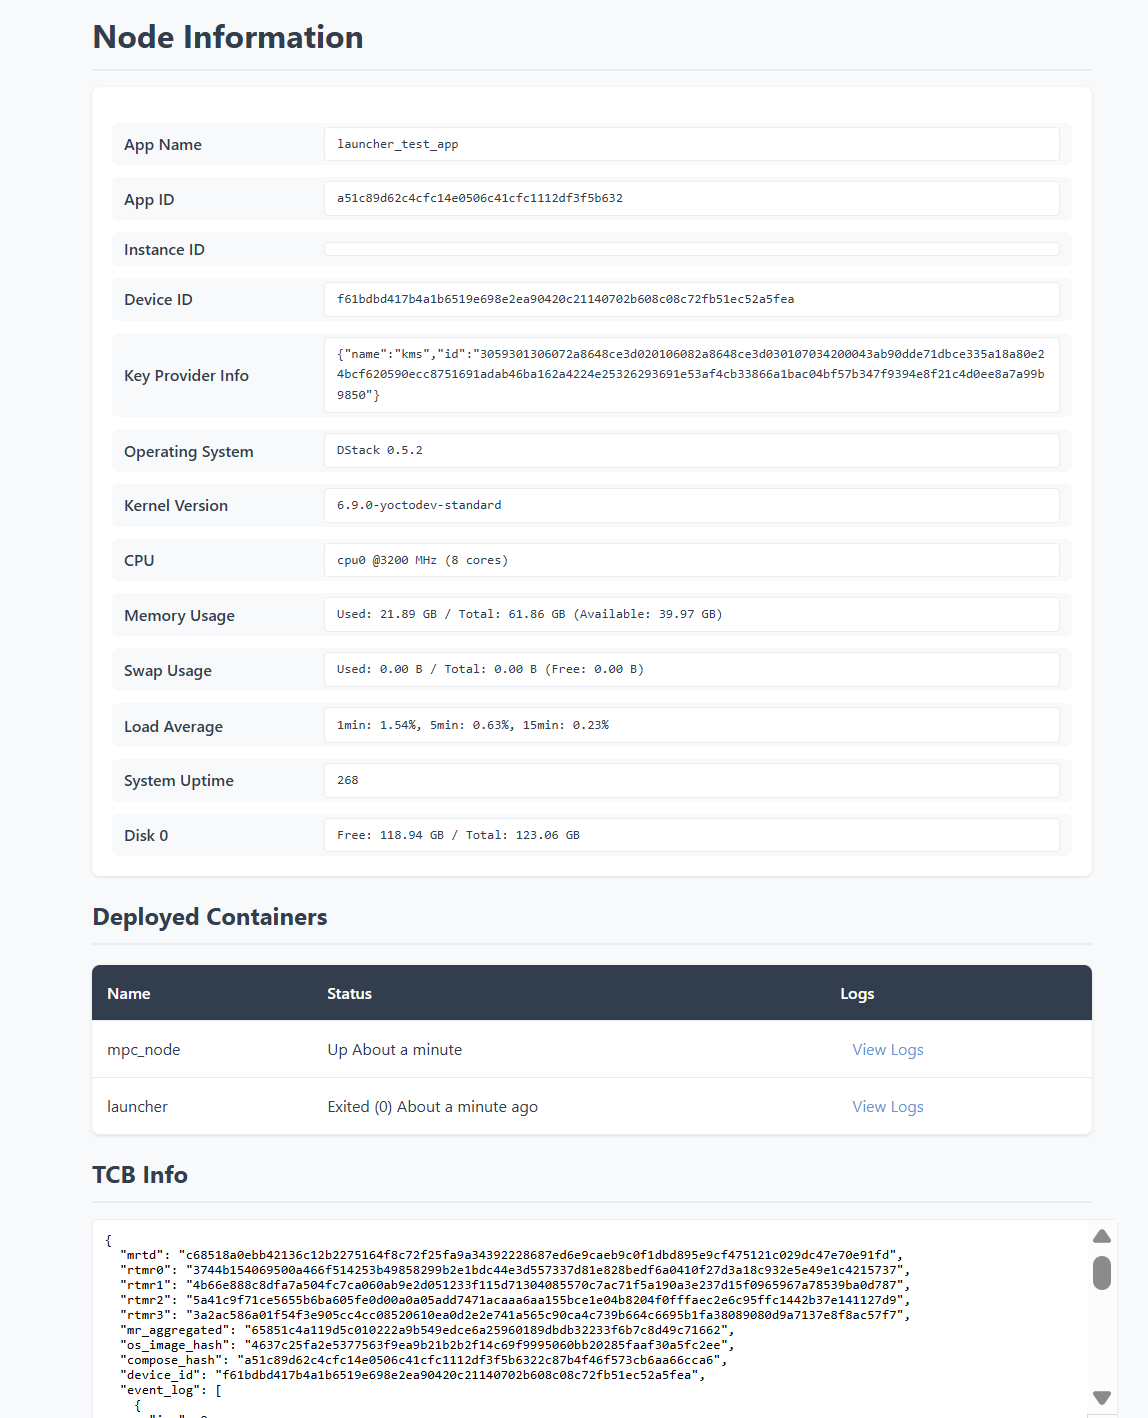
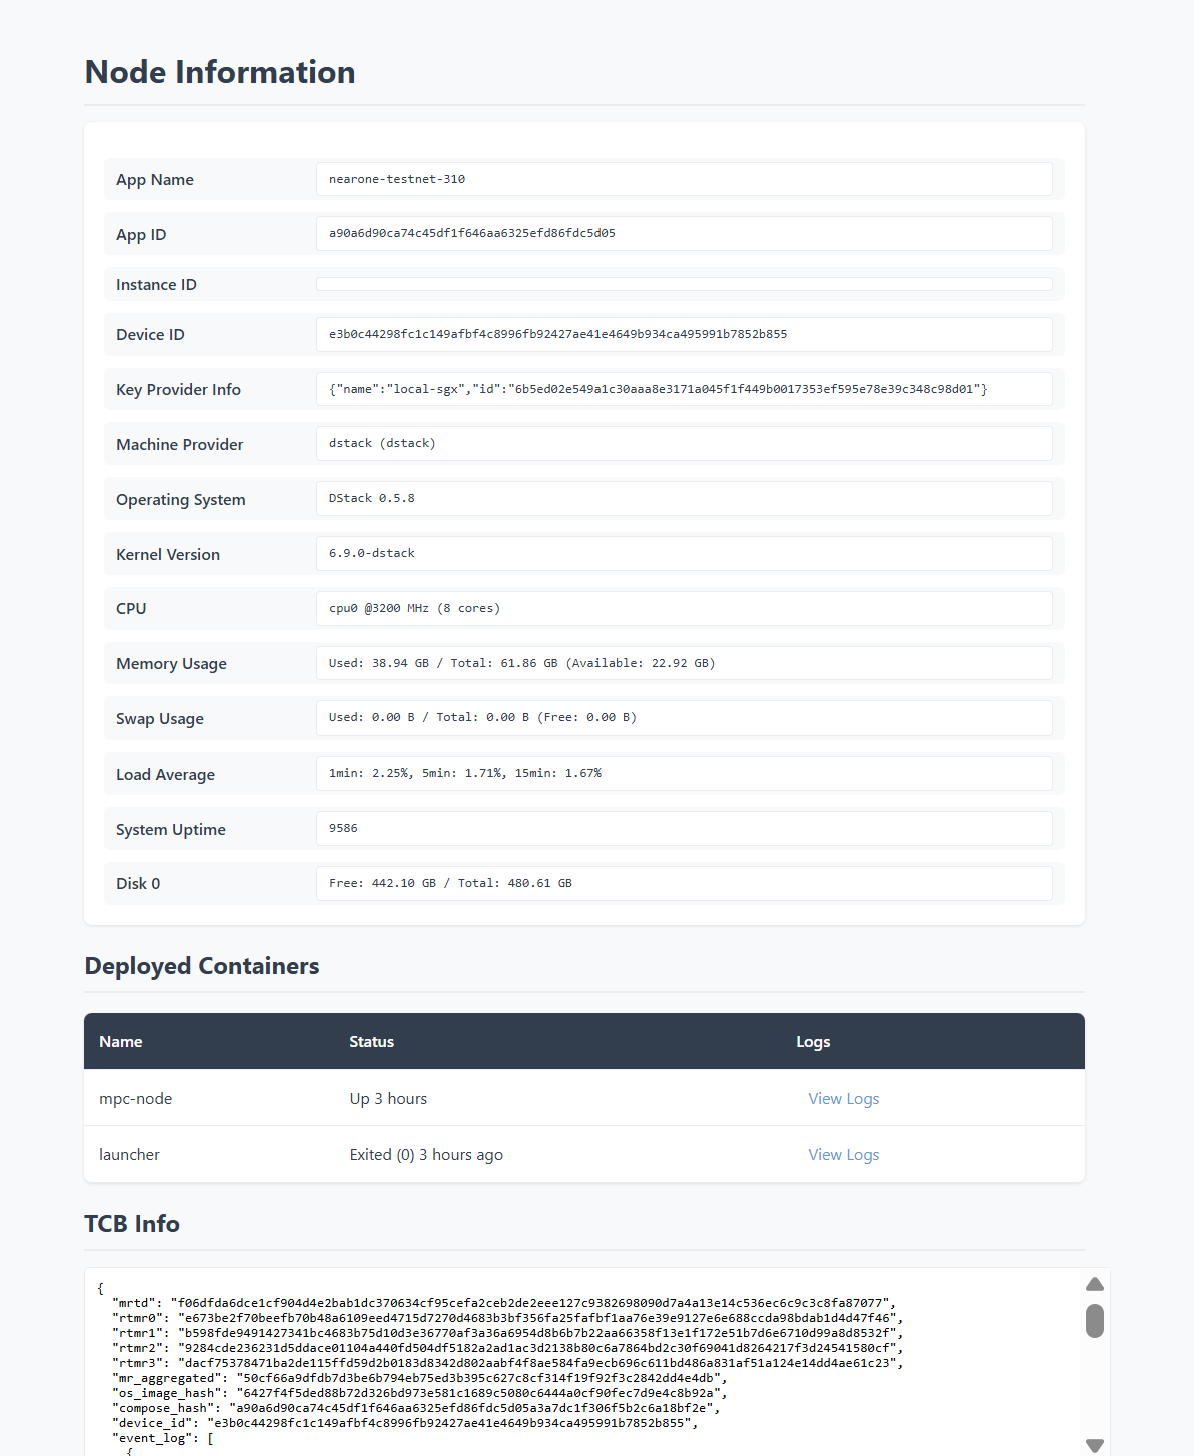
docs(operator-guide): refresh dstack UI screenshots for 0.5.8
- Recapture CVM_web_page.png, cvm_options.png, config_upgrade.png
  against dstack-dev-0.5.8.
- Replace VMM_web_page.png with VMM_web_page_deploy_1.png and
  VMM_web_page_deploy_2.png — same step, split because the new
  capture is too tall to fit as one image.

diff --git a/docs/running-an-mpc-node-in-tdx-external-guide.md b/docs/running-an-mpc-node-in-tdx-external-guide.md
@@ -857,7 +857,9 @@ Use the following custom settings for MPC:
 
 7. Key Provider ID: (The MrEnclave for the sgx local key provider) 6b5ed02e549a1c30aaa8e3171a045f1f449b0017353ef595e78e39c348c98d01
 
-![CVM Web Page](./attachments/VMM_web_page.png)
+![VMM Web Page (1/2)](./attachments/VMM_web_page_deploy_1.png)
+
+![VMM Web Page (2/2)](./attachments/VMM_web_page_deploy_2.png)
 
 #### Using the script
 